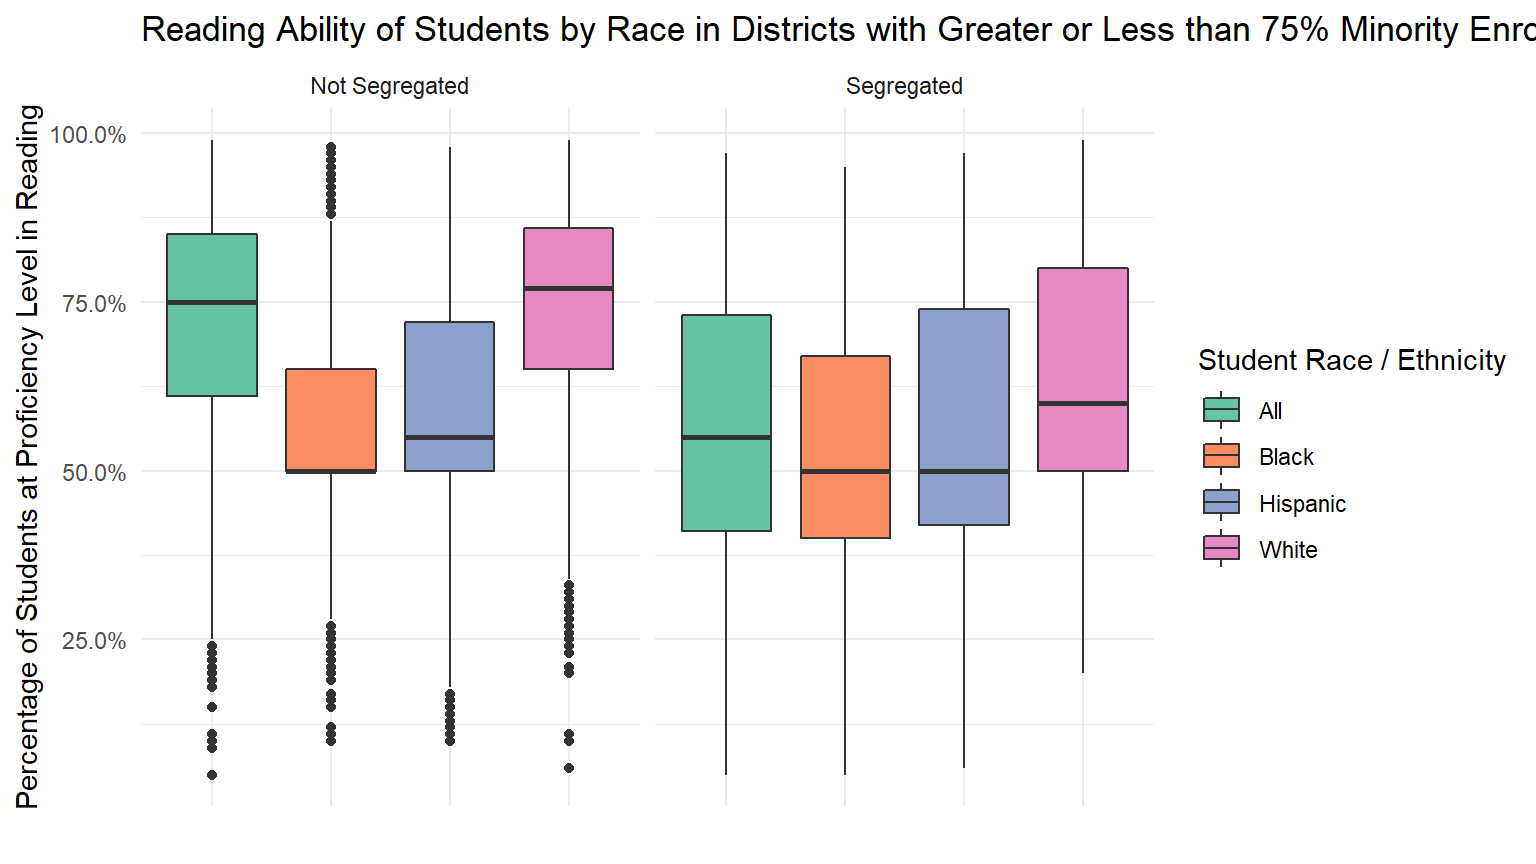
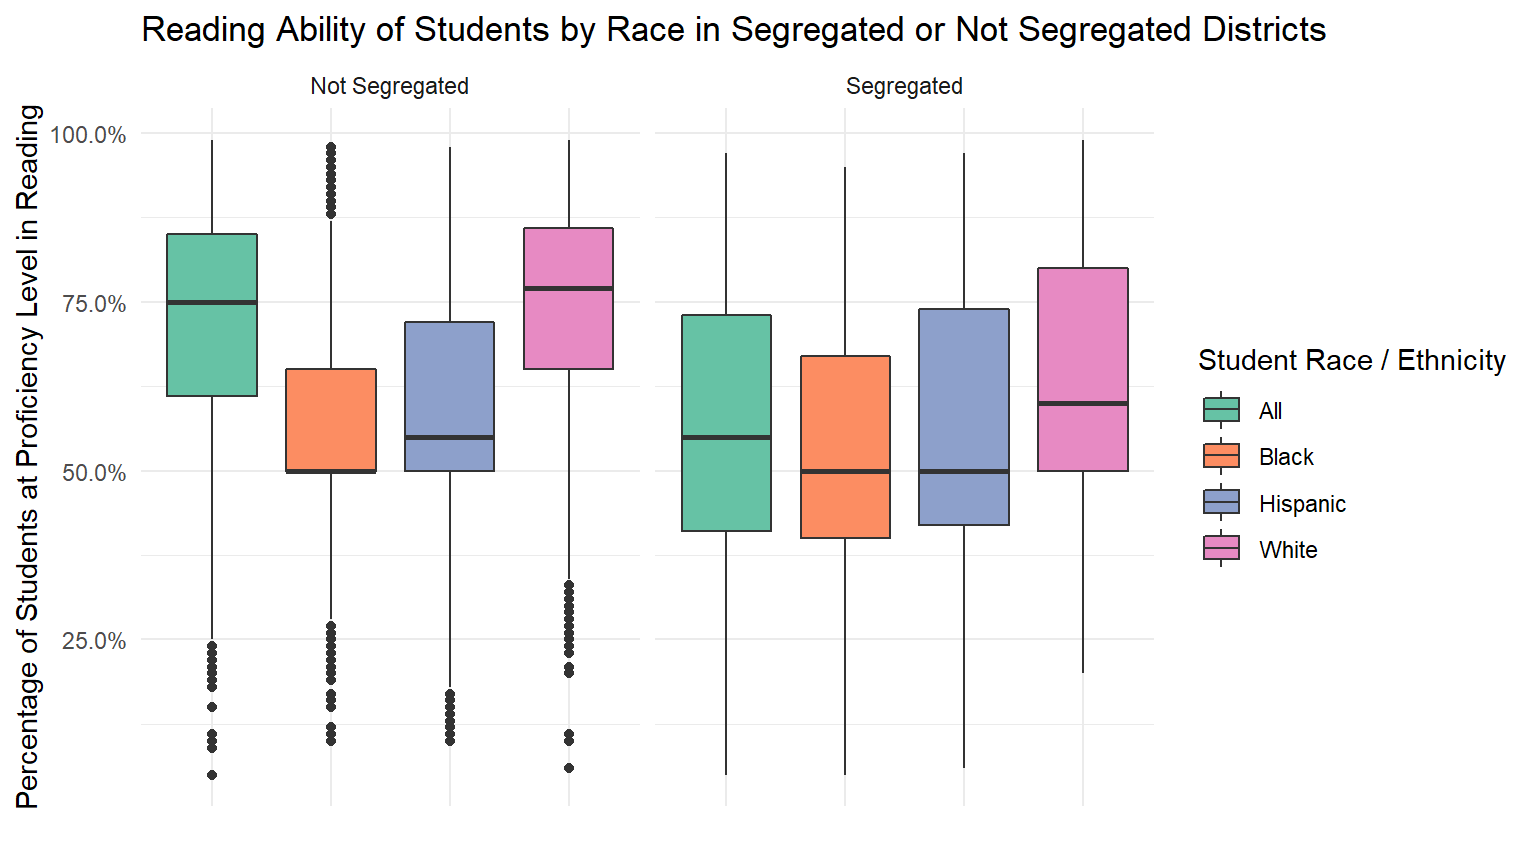
with text

Changed region(s): [[0.4688, 0.0, 1.0, 0.0625]]

diff --git a/docs/more_info.html b/docs/more_info.html
@@ -9,7 +9,7 @@
 <meta name="generator" content="pandoc" />
 
 
-<meta name="author" content="Uma Gaffney, Cecilia Mendez, and Belise" />
+<meta name="author" content="Uma Gaffney, Cecilia Mendez, and Belise Bwiza" />
 
 
 <title>Where Title VI Fails</title>
@@ -344,43 +344,40 @@ div.tocify {
 
 
 <h1 class="title toc-ignore">Where Title VI Fails</h1>
-<h4 class="author"><em>Uma Gaffney, Cecilia Mendez, and Belise</em></h4>
-<h4 class="date"><em>Last updated on 2018-12-14</em></h4>
+<h4 class="author"><em>Uma Gaffney, Cecilia Mendez, and Belise Bwiza</em></h4>
+<h4 class="date"><em>Last updated on 2018-12-20</em></h4>
 
 </div>
 
 
-<div class="sourceCode"><pre class="sourceCode r"><code class="sourceCode r"><span class="kw">library</span>(tidyverse)
+<div class="sourceCode"><pre class="sourceCode r"><code class="sourceCode r"><span class="co">#load packages</span>
+<span class="kw">library</span>(tidyverse)
 <span class="kw">library</span>(readr)
 <span class="kw">library</span>(leaflet)
+<span class="co">#load data</span>
 SCH_truncated &lt;-<span class="st"> </span><span class="kw">read_csv</span>(<span class="st">&quot;SCH_truncated.csv&quot;</span>)
 CRDCdistricts &lt;-<span class="st"> </span><span class="kw">read_csv</span>(<span class="st">&quot;CRDC2013_14_LEA.csv&quot;</span>)
 rla20112012 &lt;-<span class="st"> </span><span class="kw">read_csv</span>(<span class="st">&quot;rla20112012.csv&quot;</span>)
 
+<span class="co">#data wrangling: combined male and female data for each race</span>
 LEA_demo &lt;-<span class="st"> </span>SCH_truncated<span class="op">%&gt;%</span><span class="st"> </span>
 <span class="st">  </span><span class="kw">select</span>(<span class="dv">1</span><span class="op">:</span><span class="dv">5</span>, <span class="dv">8</span><span class="op">:</span><span class="dv">10</span>, <span class="dv">27</span><span class="op">:</span><span class="kw">ncol</span>(SCH_truncated)) <span class="op">%&gt;%</span>
 <span class="st">  </span><span class="kw">mutate</span>(<span class="dt">HI =</span> SCH_ENR_HI_M <span class="op">+</span><span class="st"> </span>SCH_ENR_HI_F) <span class="op">%&gt;%</span>
 <span class="st">  </span><span class="kw">mutate</span>(<span class="dt">AM =</span> SCH_ENR_AM_M <span class="op">+</span><span class="st"> </span>SCH_ENR_AM_F) <span class="op">%&gt;%</span>
-<span class="st">  </span><span class="kw">mutate</span>(<span class="dt">AS =</span> SCH_ENR_AS_M <span class="op">+</span><span class="st"> </span>SCH_ENR_AS_F) <span class="op">%&gt;%</span>
 <span class="st">  </span><span class="kw">mutate</span>(<span class="dt">BL =</span> SCH_ENR_BL_M <span class="op">+</span><span class="st"> </span>SCH_ENR_BL_F) <span class="op">%&gt;%</span>
 <span class="st">  </span><span class="kw">mutate</span>(<span class="dt">HP =</span> SCH_ENR_HP_M <span class="op">+</span><span class="st"> </span>SCH_ENR_HP_F) <span class="op">%&gt;%</span>
-<span class="st">  </span><span class="kw">mutate</span>(<span class="dt">WH =</span> SCH_ENR_WH_M <span class="op">+</span><span class="st"> </span>SCH_ENR_WH_F) <span class="op">%&gt;%</span>
-<span class="st">  </span><span class="kw">mutate</span>(<span class="dt">TR =</span> SCH_ENR_TR_M <span class="op">+</span><span class="st"> </span>SCH_ENR_TR_F) <span class="op">%&gt;%</span>
 <span class="st">  </span><span class="kw">mutate</span>(<span class="dt">TOT =</span> TOT_ENR_M <span class="op">+</span><span class="st"> </span>TOT_ENR_F) <span class="op">%&gt;%</span>
+<span class="st">  </span><span class="co">#summarize by district</span>
 <span class="st">  </span><span class="kw">group_by</span>(LEAID) <span class="op">%&gt;%</span>
 <span class="st">  </span><span class="kw">summarize</span>(<span class="dt">HI =</span> <span class="kw">sum</span>(HI), 
             <span class="dt">AM =</span> <span class="kw">sum</span>(AM), 
-            <span class="dt">AS =</span> <span class="kw">sum</span>(AS), 
             <span class="dt">BL =</span> <span class="kw">sum</span>(BL), 
             <span class="dt">HP =</span> <span class="kw">sum</span>(HP), 
-            <span class="dt">WH =</span> <span class="kw">sum</span>(WH), 
-            <span class="dt">TR =</span> <span class="kw">sum</span>(TR),
             <span class="dt">TOT =</span> <span class="kw">sum</span>(TOT)) <span class="op">%&gt;%</span>
-<span class="st">  </span><span class="kw">mutate</span>(<span class="dt">HIprop =</span> HI <span class="op">/</span><span class="st"> </span>TOT) <span class="op">%&gt;%</span>
-<span class="st">  </span><span class="kw">mutate</span>(<span class="dt">BLprop =</span> BL <span class="op">/</span><span class="st"> </span>TOT) <span class="op">%&gt;%</span>
-<span class="st">  </span><span class="kw">mutate</span>(<span class="dt">WHprop =</span> WH <span class="op">/</span><span class="st"> </span>TOT) <span class="op">%&gt;%</span>
-<span class="st">  </span><span class="kw">mutate</span>(<span class="dt">HIBLprop =</span> (HI <span class="op">+</span><span class="st"> </span>BL) <span class="op">/</span><span class="st"> </span>TOT) <span class="op">%&gt;%</span>
+<span class="st">  </span><span class="co">#add variable for what percent minority (- asian) and whether it is greater than 75%</span>
 <span class="st">  </span><span class="kw">mutate</span>(<span class="dt">minprop =</span> (HI <span class="op">+</span><span class="st"> </span>AM <span class="op">+</span><span class="st"> </span>BL <span class="op">+</span><span class="st"> </span>HP) <span class="op">/</span><span class="st"> </span>TOT) <span class="op">%&gt;%</span>
+<span class="st">  </span><span class="co">#removing one weird outlier that claims to be 400% minority</span>
+<span class="st">  </span><span class="kw">filter</span>(minprop <span class="op">&lt;=</span><span class="st"> </span><span class="dv">1</span>) <span class="op">%&gt;%</span>
 <span class="st">  </span><span class="kw">mutate</span>(<span class="dt">mindis =</span> <span class="kw">ifelse</span>(minprop <span class="op">&gt;</span><span class="st"> </span>.<span class="dv">75</span>, <span class="st">&quot;Segregated&quot;</span>, <span class="st">&quot;Not Segregated&quot;</span>))
 
 <span class="co">#The LEAID variable for CRDCdistricts and rla20112012 start with a leading 0</span>
@@ -402,26 +399,27 @@ joined_districts &lt;-<span class="st"> </span>CRDCdistricts <span class="op">%&
 <div id="segregated-districts-in-america" class="section level1">
 <h1>Segregated Districts in America</h1>
 <p>According to the Department of Education’s Civil Rights data, approximately 20,000 of the nearly 100,000 schools that accept federal funding are more than 75% underprivileged minorities. Of those 20,000 schools, almost 13,000 of them, or about 65%, are in districts that are also more than 75% minority. Because the schools in these districts are generally similar in terms of ethnic breakdown, less than 400 segregated schools and just 11 segregated districts have a formal desegregation order or plan in place. Yet the remaining districts are in need of just as much or more help.</p>
-</div>
-<div id="student-outcomes-and-district-demographics" class="section level1">
-<h1>Student Outcomes and District Demographics</h1>
+<div id="student-outcomes-and-district-demographics" class="section level2">
+<h2>Student Outcomes and District Demographics</h2>
+<p>Although we have established that many school districts in this country are heavily segregated, we have not yet established how this is a problem. Instead of looking at whether separate educational systems could ever be philosophically equal, we examined whether they were equal in terms of student outcomes. The plot below suggests that they are not. This graph shows for each school district in the country what percentage of students were considered proficient in reading and language skills based on their state’s assessment, compared to what percentage of the school district is minorities (In this study, we are considering black, Hispanic, Native American, and Pacific Islander students to be minorities, but not Asian students). Also marked are the few districts with a formal desegregation plan or order in place. As can be seen, the clear majority of districts with nearly 100% minority population have no formal desegregation order in place. A clear trend shows that as the district becomes less and less white, reading proficiency decreases. Therefore, we see that segregated districts are not performing equally to white districts and are not an acceptable option.</p>
 <div class="sourceCode"><pre class="sourceCode r"><code class="sourceCode r"><span class="co">#scatterplot showing overall reading proficiency by what % district is black or hispanic</span>
 joined_districts <span class="op">%&gt;%</span>
 <span class="st">  </span><span class="kw">filter</span>(LEA_DESEGPLAN <span class="op">!=</span><span class="st"> &quot;-5&quot;</span>) <span class="op">%&gt;%</span>
 <span class="st">  </span><span class="kw">ggplot</span>(<span class="kw">aes</span>(<span class="dt">x =</span> minprop, <span class="dt">y =</span> ALL_RLA00pctprof_<span class="dv">1112</span> <span class="op">/</span><span class="st"> </span><span class="dv">100</span>, <span class="dt">color =</span> LEA_DESEGPLAN)) <span class="op">+</span><span class="st"> </span>
-<span class="st">  </span><span class="kw">scale_x_continuous</span>(<span class="dt">limits =</span> <span class="kw">c</span>(<span class="dv">0</span>, <span class="dv">1</span>), <span class="dt">labels =</span> scales<span class="op">::</span>percent) <span class="op">+</span>
+<span class="st">  </span><span class="kw">scale_x_continuous</span>(<span class="dt">labels =</span> scales<span class="op">::</span>percent) <span class="op">+</span>
 <span class="st">  </span><span class="kw">scale_y_continuous</span>(<span class="dt">labels =</span> scales<span class="op">::</span>percent) <span class="op">+</span>
 <span class="st">  </span><span class="kw">geom_point</span>(<span class="dt">size =</span> <span class="dv">1</span>) <span class="op">+</span><span class="st"> </span>
+<span class="st">  </span><span class="kw">scale_color_brewer</span>(<span class="dt">palette =</span> <span class="st">&quot;Dark2&quot;</span>) <span class="op">+</span>
 <span class="st">  </span><span class="kw">theme_minimal</span>() <span class="op">+</span>
-<span class="st">  </span><span class="kw">scale_color_manual</span>(<span class="dt">values=</span><span class="kw">c</span>(<span class="st">&quot;#56B4E9&quot;</span>, <span class="st">&quot;orange&quot;</span>)) <span class="op">+</span>
 <span class="st">  </span><span class="kw">labs</span>(<span class="dt">x =</span> <span class="st">&quot;Underprivileged Minority District Enrollment&quot;</span>,
        <span class="dt">y =</span> <span class="st">&quot;Percentage of Students at Proficiency Level in Reading&quot;</span>, 
        <span class="dt">color =</span> <span class="st">&quot;Formal Desegregation Plan&quot;</span>,
        <span class="dt">title =</span> <span class="st">&quot;Reading Proficiency Relative to Minority Enrollment in Districts&quot;</span>)</code></pre></div>
 <p><img src="more_info_files/figure-html/unnamed-chunk-3-1.png" width="768" /></p>
 </div>
-<div id="segregated-districts-across-the-country" class="section level1">
-<h1>Segregated Districts Across the Country</h1>
+<div id="segregated-districts-across-the-country" class="section level2">
+<h2>Segregated Districts Across the Country</h2>
+<p>One limitation of the above graph is that each state has its own testing method and standards, and they are very difficult to compare across states. As a result, we looked specifically at the distributions for reading proficiency in three large states across different regions in this country, and the results were astounding. In New York, and California, reading proficiency in segregated districts (defined as districts with 75% or greater minority enrollment) is so much lower than unsegregated districts that the middle 50% of the distributions barely overlap. High reading proficiencies in Texas suggest that testing may be different in that state, but even so, the gap between unsegregated and segregated districts is obvious.</p>
 <div class="sourceCode"><pre class="sourceCode r"><code class="sourceCode r"><span class="co">#boxplot data for three states of interest</span>
 <span class="co">#plot scores by segregated status and facet by state</span>
 joined_districts <span class="op">%&gt;%</span>
@@ -438,33 +436,45 @@ joined_districts <span class="op">%&gt;%</span>
 <span class="st">  </span><span class="kw">scale_y_continuous</span>(<span class="dt">labels =</span> scales<span class="op">::</span>percent)</code></pre></div>
 <p><img src="more_info_files/figure-html/unnamed-chunk-4-1.png" width="768" /></p>
 </div>
-<div id="who-hurts-the-most" class="section level1">
-<h1>Who Hurts The Most</h1>
+<div id="who-hurts-the-most" class="section level2">
+<h2>Who Hurts The Most</h2>
+<p>Education inequality has skyrocketed over the years in this country. The Stanford Center for Education Policy Analysis released a study which found out that between 1990 and 2010, income segregation between school districts has increased by 15%.<a href="#fn1" class="footnoteRef" id="fnref1"><sup>1</sup></a> It is easy to look at the above graphics and think that only income, not race, affects the education of these students. However, the graphic below suggests otherwise. The following boxplot shows the reading proficiency distribution for black, white, and Hispanic students in either segregated or unsegregated districts. As expected based on the prior analyses, all scores go down somewhat in segregated districts. Although the top half of black and Hispanic students do about the same or even a little better in segregated districts, the bottom 50% do notably worse. What is important to see, however, is that that although white students do much worse in segregated districts than in unsegregated, they still do better than their black and Hispanic classmates. These data suggest that even in the same district, white students are still somehow receiving a better education.</p>
 <div class="sourceCode"><pre class="sourceCode r"><code class="sourceCode r"><span class="co">#gather data by ethnicity so that scores can be compared across race</span>
 <span class="co">#most rows will be empty (since many districts don&#39;t have black or hispanic students)</span>
 joined_districts <span class="op">%&gt;%</span>
 <span class="st">  </span><span class="kw">select</span>(LEAID, 
-         HIBLprop, 
          mindis, 
          ALL_RLA00pctprof_<span class="dv">1112</span>, 
          MWH_RLA00pctprof_<span class="dv">1112</span>, 
          MBL_RLA00pctprof_<span class="dv">1112</span>, 
          MHI_RLA00pctprof_<span class="dv">1112</span>) <span class="op">%&gt;%</span>
-<span class="st">  </span><span class="kw">gather</span>(<span class="dt">key =</span> <span class="st">&quot;ethnicity&quot;</span>, <span class="dt">value =</span> <span class="st">&quot;RLA00pctprof_1112&quot;</span>, <span class="dv">4</span><span class="op">:</span><span class="dv">7</span>) <span class="op">%&gt;%</span>
+<span class="st">  </span><span class="kw">gather</span>(<span class="dt">key =</span> <span class="st">&quot;ethnicity&quot;</span>, <span class="dt">value =</span> <span class="st">&quot;RLA00pctprof_1112&quot;</span>, <span class="dv">3</span><span class="op">:</span><span class="dv">6</span>) <span class="op">%&gt;%</span>
 <span class="st">  </span><span class="co">#plot this data race vs scores faceting by segregation</span>
+<span class="st">  </span><span class="kw">filter</span>(mindis <span class="op">!=</span><span class="st"> &quot;NA&quot;</span>) <span class="op">%&gt;%</span>
 <span class="st">  </span><span class="kw">ggplot</span>(<span class="kw">aes</span>(<span class="dt">x =</span> ethnicity, <span class="dt">fill =</span> ethnicity, <span class="dt">y =</span> RLA00pctprof_<span class="dv">1112</span> <span class="op">/</span><span class="st"> </span><span class="dv">100</span>)) <span class="op">+</span><span class="st"> </span>
 <span class="st">  </span><span class="kw">facet_wrap</span>(<span class="op">~</span>mindis) <span class="op">+</span><span class="st"> </span>
 <span class="st">  </span><span class="kw">geom_boxplot</span>() <span class="op">+</span><span class="st"> </span>
 <span class="st">  </span><span class="kw">labs</span>( <span class="dt">y =</span> <span class="st">&quot;Percentage of Students at Proficiency Level in Reading&quot;</span>, 
         <span class="dt">fill =</span> <span class="st">&quot;Student Race / Ethnicity&quot;</span>, 
         <span class="dt">x =</span> <span class="st">&quot;&quot;</span>, 
-        <span class="dt">title =</span> <span class="st">&quot;Reading Ability of Students by Race in Districts with Greater or Less than 75% Minority Enrollment&quot;</span>) <span class="op">+</span><span class="st"> </span>
+        <span class="dt">title =</span> <span class="st">&quot;Reading Ability of Students by Race in Segregated or Not Segregated Districts&quot;</span>) <span class="op">+</span><span class="st"> </span>
 <span class="st">  </span><span class="kw">scale_y_continuous</span>(<span class="dt">labels =</span> scales<span class="op">::</span>percent) <span class="op">+</span>
 <span class="st">  </span><span class="kw">scale_fill_brewer</span>(<span class="dt">palette =</span> <span class="st">&quot;Set2&quot;</span>, 
                     <span class="dt">labels =</span> <span class="kw">c</span>(<span class="st">&quot;All&quot;</span>,  <span class="st">&quot;Black&quot;</span>, <span class="st">&quot;Hispanic&quot;</span>, <span class="st">&quot;White&quot;</span>)) <span class="op">+</span>
 <span class="st">  </span><span class="kw">theme_minimal</span>() <span class="op">+</span>
 <span class="st">  </span><span class="kw">theme</span>(<span class="dt">axis.text.x =</span> <span class="kw">element_blank</span>())</code></pre></div>
 <p><img src="more_info_files/figure-html/unnamed-chunk-5-1.png" width="768" /></p>
+</div>
+</div>
+<div id="redefining-title-vi" class="section level1">
+<h1>Redefining Title VI</h1>
+<p>Half a century ago, Title VI made it illegal to discriminate against students in public schools on the basis of race or ethnicity. How is it possible, then, that the system that was created in a post-Title VI world still allows nearly 8.5 million students to attend school in segregated, underperforming districts? Other influential factors like geography and income have stratified our educational system, and neither of those will be easy to overcome. The first priority must be to aid struggling schools in these districts so that no children are penalized for where they were born or who their parents are. In the long term, Title VI must evolve so that, wherever possible, integration will cross district lines and students will be welcomed into diverse, thriving schools in districts all over the country.</p>
+</div>
+<div class="footnotes">
+<hr />
+<ol>
+<li id="fn1"><p>Owens, Ann, et al. “Income Segregation Between Schools and School Districts.” American Educational Research Journal, vol. 53, no. 4, Aug. 2016, pp. 1159–1197, <a href="doi:10.3102/0002831216652722" class="uri">doi:10.3102/0002831216652722</a>.<a href="#fnref1">↩</a></p></li>
+</ol>
 </div>
 
 
